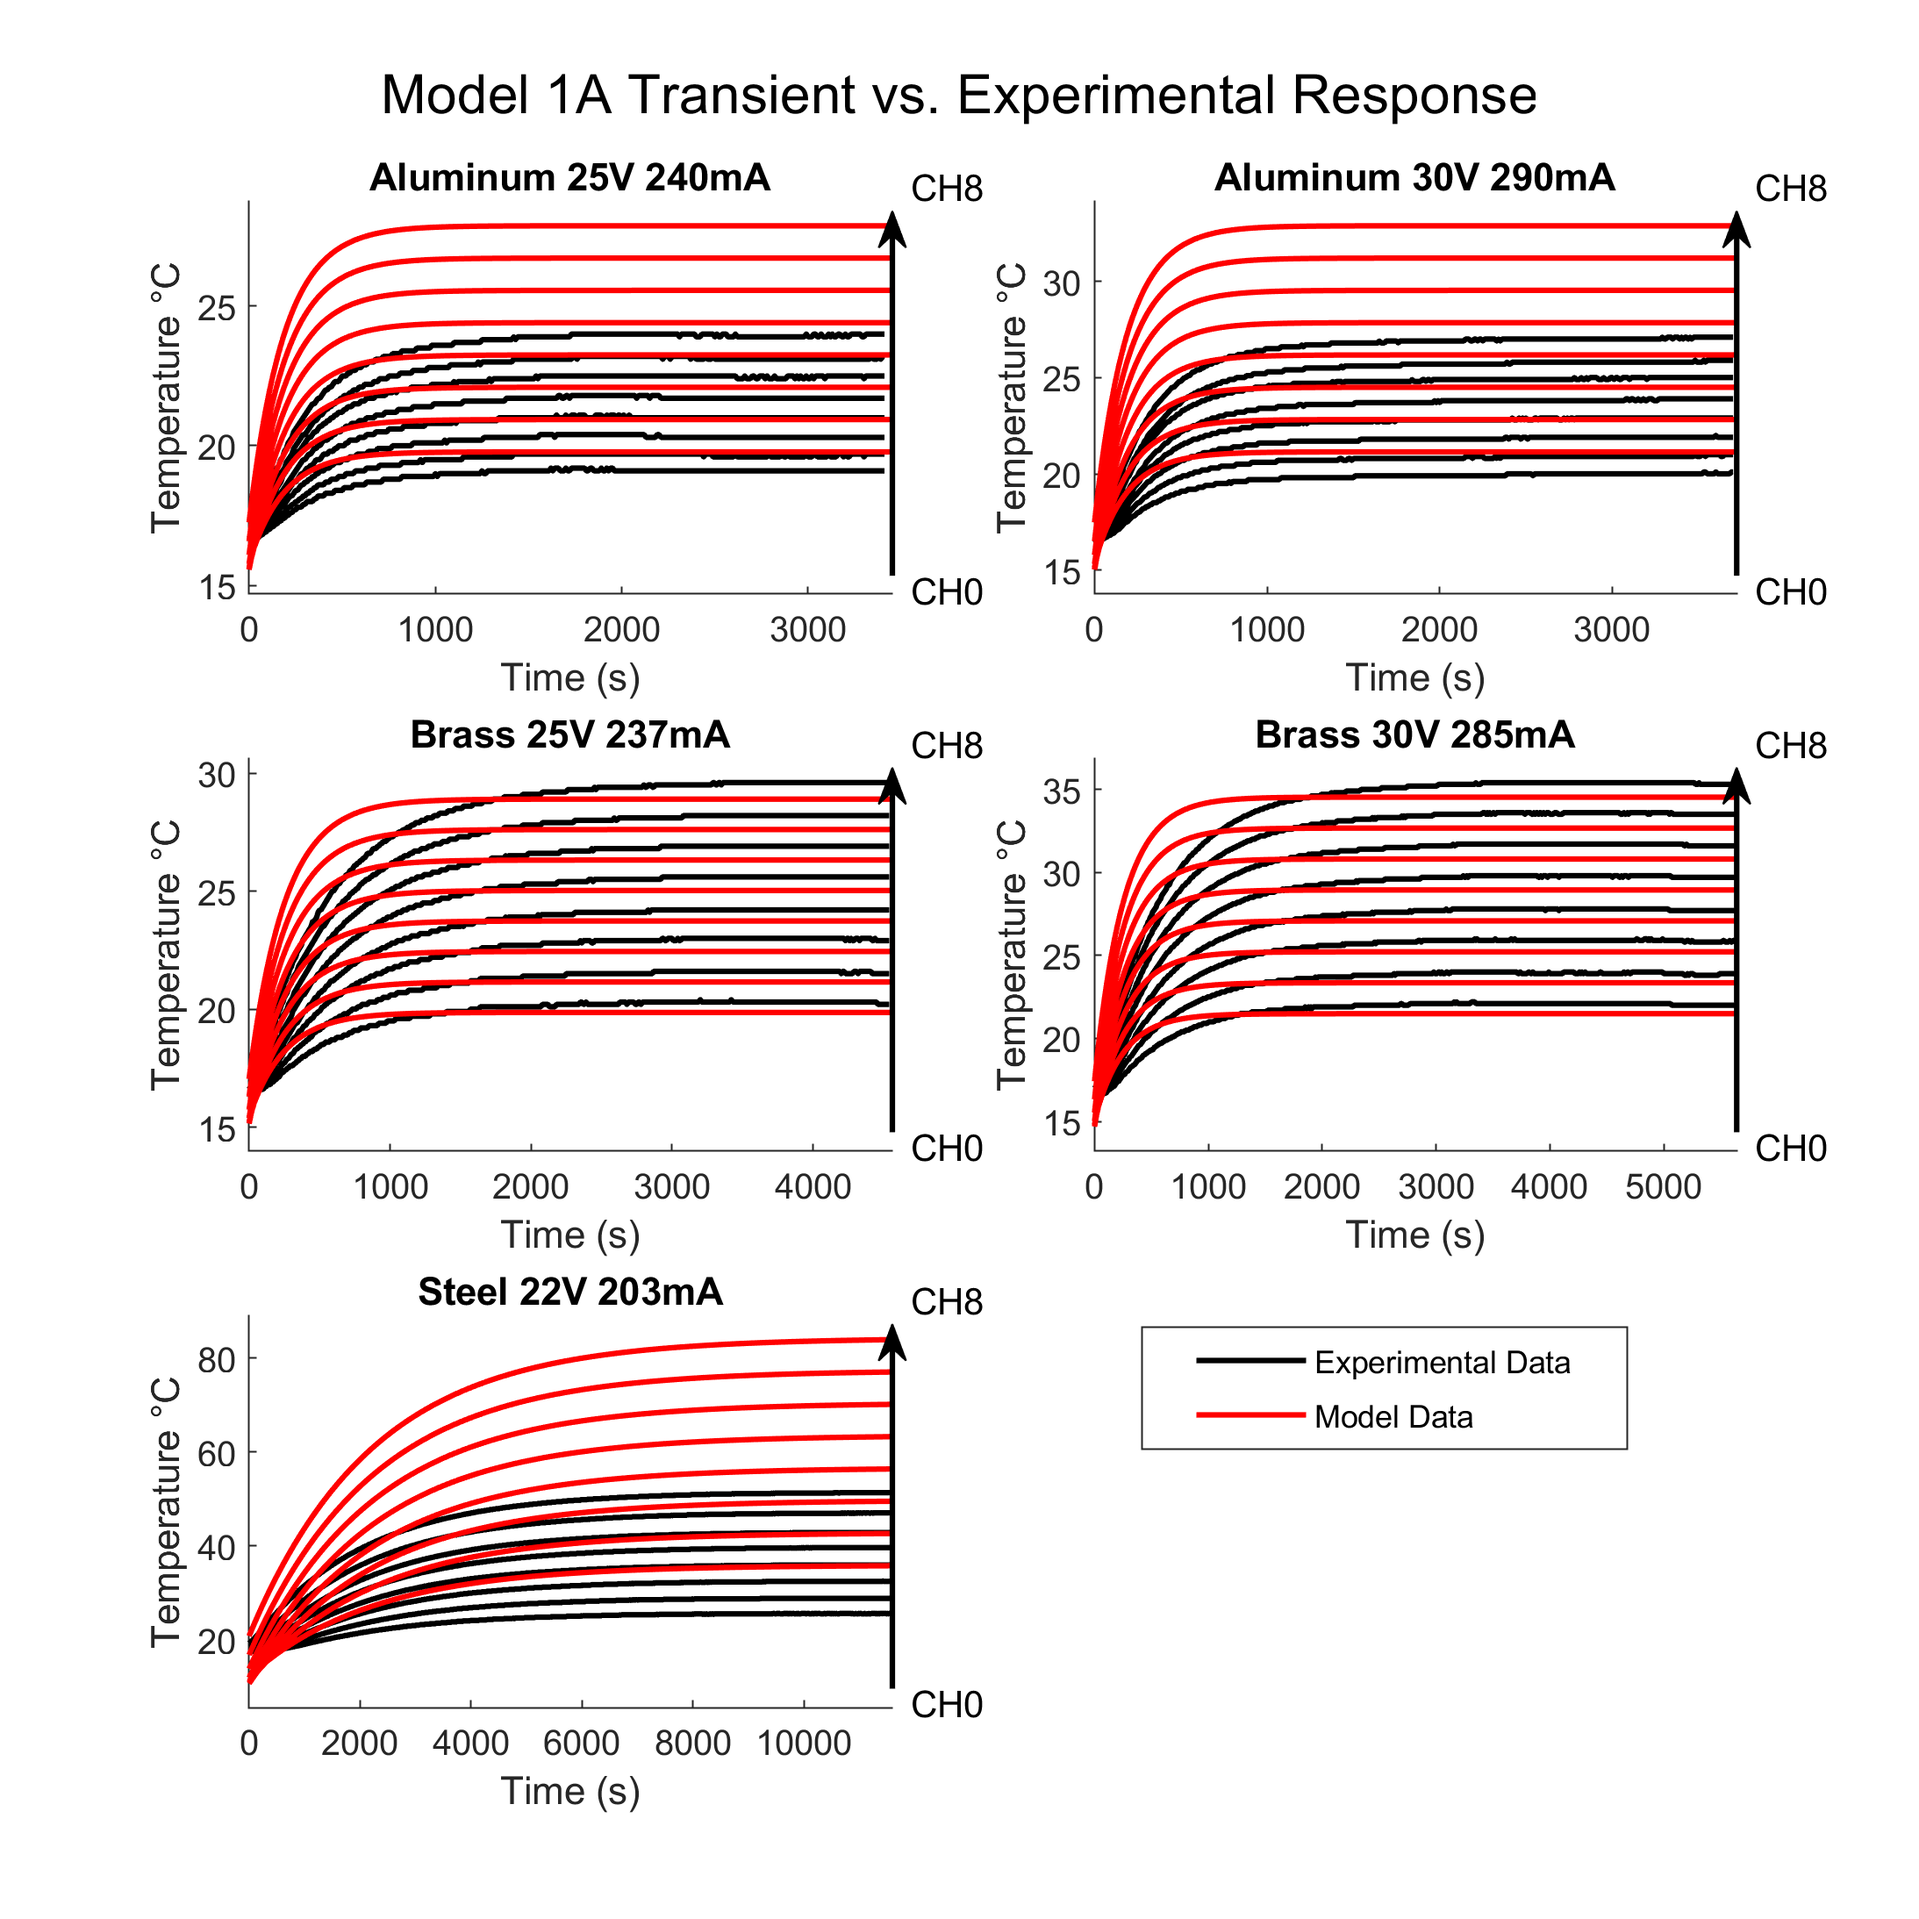
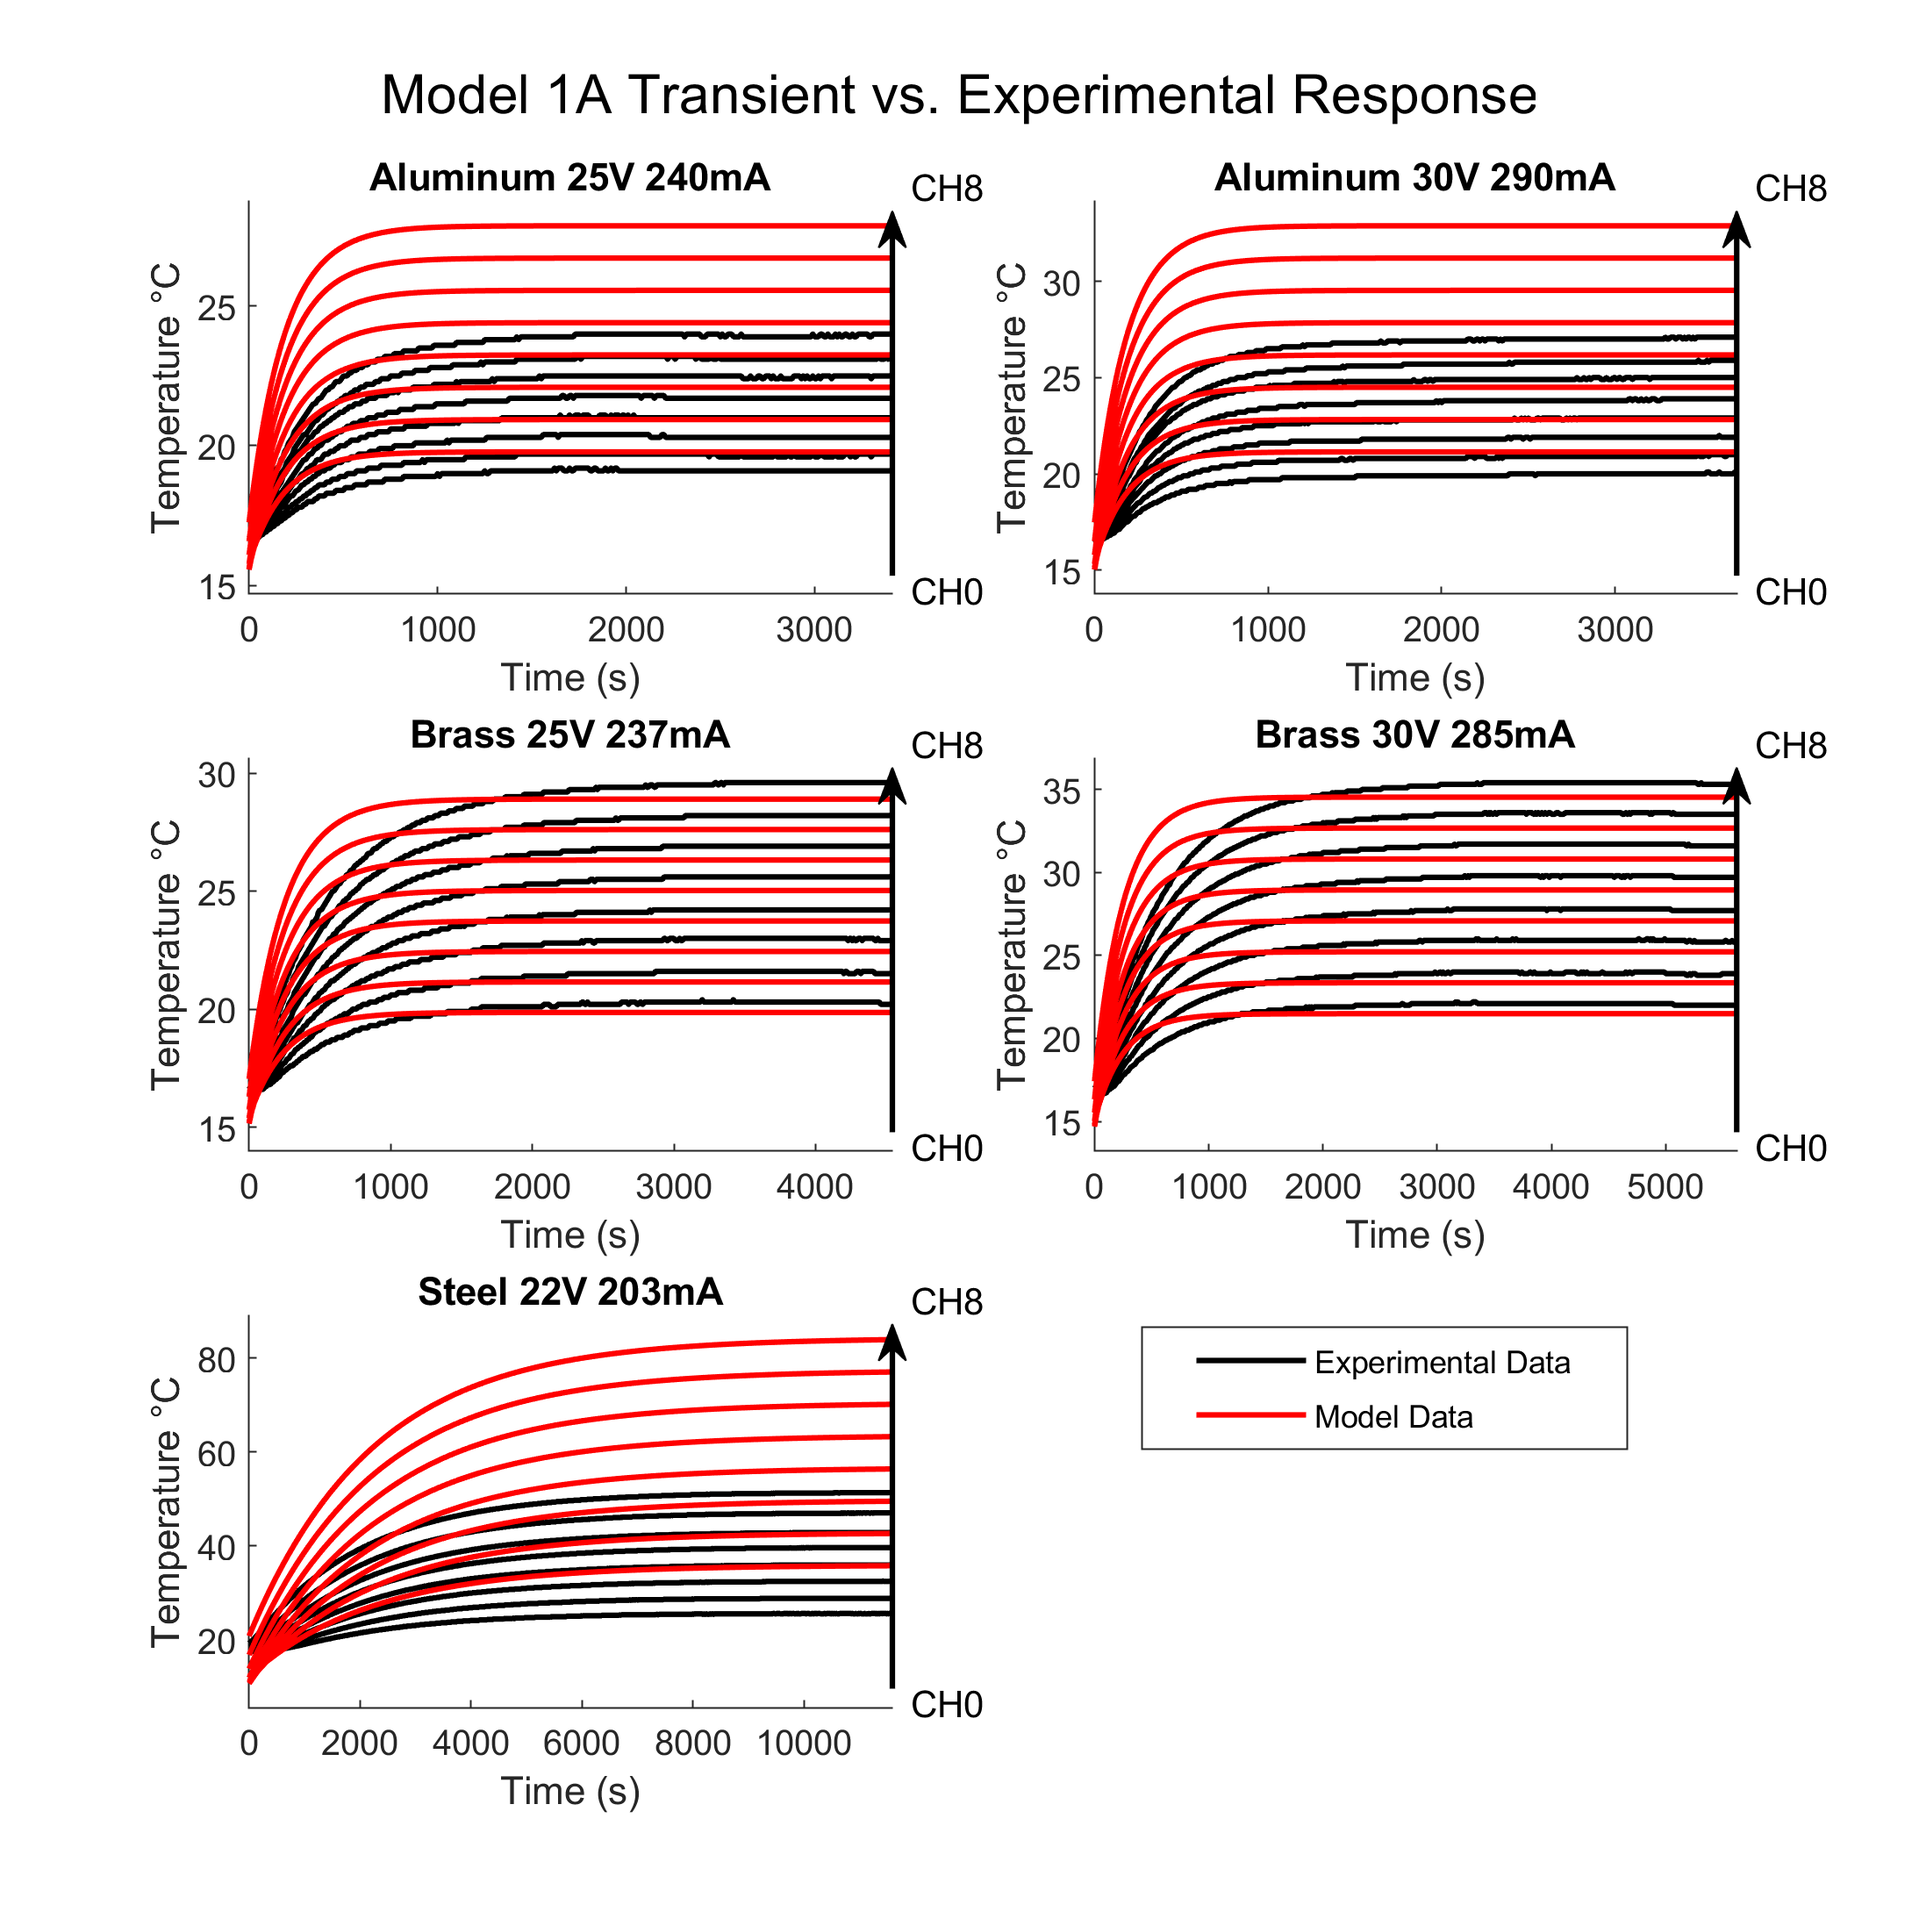
Add files via upload

diff --git a/main.m b/main.m
@@ -47,19 +47,33 @@ T_0 = table2array(init.fit_data(:,2));
 %% Calculating u(x,t) for each model
 
 % Time Vector (End time for each individual trial)
-t_vec = [height(data{1})*10,height(data{2})*10,height(data{3})*10,height(data{4})*10,height(data{5})*10];
+t_vec = [(height(data{1})-2)*10,(height(data{2})-2)*10,(height(data{3})-2)*10,(height(data{4})-2)*10,(height(data{5})-2)*10];
 
 % Model 1a
-u_model_1a = calc_u_models(1,steady.approx_steady_slope,init.fit_data.Slope,T_0,const.ch_position,t_vec,const,[1,1,2,2,3],1,10);
+u_model_1a = calc_u_models(1,steady.approx_steady_slope,init.fit_data.Slope,T_0,const.ch_position,t_vec,const,[1,1,2,2,3],1,10,[0,0,0,0,0]);
 
 % Model 1b
-u_model_1b = calc_u_models(1,steady.fit_data.Slope,init.fit_data.Slope,T_0,const.ch_position,t_vec,const,[1,1,2,2,3],1,10);
+u_model_1b = calc_u_models(1,steady.fit_data.Slope,init.fit_data.Slope,T_0,const.ch_position,t_vec,const,[1,1,2,2,3],1,10,[0,0,0,0,0]);
 
 % Model 2
-u_model_2 = calc_u_models(1,steady.fit_data.Slope,init.fit_data.Slope,T_0,const.ch_position,t_vec,const,[1,1,2,2,3],2,10);
+u_model_2 = calc_u_models(1,steady.fit_data.Slope,init.fit_data.Slope,T_0,const.ch_position,t_vec,const,[1,1,2,2,3],2,10,[0,0,0,0,0]);
 
 %% Plotting Transient Solutions for Each Model
 
 plot_transient(data,u_model_1a,1.1,file_info);
 plot_transient(data,u_model_1b,1.2,file_info);
 plot_transient(data,u_model_2,2,file_info);
+
+%% Calculating Model 3
+
+u_model_3 = calc_u_model3(1,steady.fit_data.Slope,init.fit_data.Slope,T_0,const.ch_position,t_vec,const,[1,1,2,2,3],1,10,const.alpha_mat);
+
+%% Calculating RMSE for Model 3
+
+[RMSE_model_3,min_RMSE,min_alpha] = calc_RMSE_model3(data,u_model_3,const.alpha_mat);
+
+%% Recalculating Each 
+
+% Model 3
+u_model_1b_alpha = calc_u_models(3,steady.fit_data.Slope,init.fit_data.Slope,T_0,const.ch_position,t_vec,const,[1,1,2,2,3],1,10,min_alpha);
+plot_transient(data,u_model_1b_alpha,3,file_info);

diff --git a/calc_u_model3.m b/calc_u_model3.m
@@ -1,0 +1,37 @@
+function [u_cell] = calc_u_model3(n,H,M,T_0,x,time,const,material_num,model_num,t_step,alpha)
+    % n - number of terms on Fourier series
+    % H - steady state temperature slope (degreeC/m)
+    % M - initial temperature slope (degreeC/m)
+    % T_0 - initial temperature at x_0
+
+    % Initializing u_cell
+    u_cell = cell(size(alpha));
+
+    for a = 1:length(alpha)
+        for i = 1:length(material_num) % Cycling through each case (1 = Alum 25V)
+    
+            % Reinitializing temporary matrix to store all of data
+            % Col 1: Time, Col 2-9: Channel Temperature
+            temp_mat = zeros(length(0:time(i)/t_step),1+length(x));
+    
+            % Cycling through every time (height of temporary matrix)
+            for t = 0:height(temp_mat)
+    
+                % Entering time value into matrix
+                temp_mat(t+1,1) = t*t_step;
+    
+                % Iterating through each channel (thermocouple) at specific time to calculate temperature
+                for k = 1:length(x)
+                    % Calling calculate temperature function for each cell
+                    temp_mat(t+1,k+1) = calcSum_u(n,H(i),M(i),T_0(i),x(k),temp_mat(t+1,1),const,material_num(i),model_num,alpha(a,i));
+                end
+            end
+    
+            % Converting temporary array into a table
+            temp_table = array2table(temp_mat,VariableNames = {'Time','CH1','CH2','CH3','CH4','CH5','CH6','CH7','CH8'});
+            
+            % Adding table into specified spot in cell matrix
+            u_cell{a,i} = temp_table;
+        end
+    end
+end

diff --git a/calcSum_u.m b/calcSum_u.m
@@ -1,4 +1,4 @@
-function [u] = calcSum_u(n,H,M,T_0,x,t,const,material_num,model_num)
+function [u] = calcSum_u(n,H,M,T_0,x,t,const,material_num,model_num,alpha)
 
     % Calculating 
     u = T_0 + H*x; % steady state
@@ -12,16 +12,18 @@ function [u] = calcSum_u(n,H,M,T_0,x,t,const,material_num,model_num)
             % Calculating lambda_n
             lambda_n = calc_lambda_n(i,const);
 
-            if material_num == 1
-                % Calculating u(x,t)
-                a = sin(lambda_n*x);
-                b = exp(-lambda_n^2 * const.alum.alpha * t);
-                u = u + b_n*a*b;
-
-            elseif material_num == 2
-                u = u + b_n * sin(lambda_n*x) * exp(-lambda_n^2 * const.brass.alpha * t);
-            elseif material_num == 3
-                u = u + b_n * sin(lambda_n*x) * exp(-lambda_n^2 * const.steel.alpha * t);
+            if alpha == 0
+                if material_num == 1
+                    % Calculating u(x,t)
+                    u = u + b_n * sin(lambda_n*x) * exp(-lambda_n^2 * const.alum.alpha * t);
+    
+                elseif material_num == 2
+                    u = u + b_n * sin(lambda_n*x) * exp(-lambda_n^2 * const.brass.alpha * t);
+                elseif material_num == 3
+                    u = u + b_n * sin(lambda_n*x) * exp(-lambda_n^2 * const.steel.alpha * t);
+                end
+            else
+                u = u + b_n * sin(lambda_n*x) * exp(-lambda_n^2 * alpha * t);
             end
 
         end

diff --git a/calc_RMSE_model3.m b/calc_RMSE_model3.m
@@ -1,0 +1,53 @@
+function [RMSE,min_RMSE,min_alpha] = calc_RMSE_model3(data,u_model,alpha_mat)
+
+RMSE = zeros(size(u_model));
+
+for i = 1:size(u_model,1)
+    for j = 1:length(data)
+
+        % Grabbing data from cell matrices
+        data_mat = table2array(data{j});
+        model_mat = table2array(u_model{i,j});
+
+        % Cutting off time column
+        data_mat = data_mat(:,2:end);
+        model_mat = model_mat(:,2:end);
+
+        a = sum((data_mat-model_mat).^2,"all");
+        b = numel(data_mat);
+
+        RMSE(i,j) = sqrt(a / b);
+
+    end
+end
+
+%% Plotting RMSE vs Alpha
+
+yes_plot = 1;
+
+if yes_plot == 1
+    figure()
+    hold on
+    for i = 1:size(RMSE,2)
+        plot(alpha_mat(:,i),RMSE(:,i),LineWidth=1.5)
+    end
+    hold off
+    title("Root Mean Squared Error vs Thermal Diffusivity")
+    xlabel("Thermal Diffusivity (m^2/s)")
+    ylabel("Root Mean Squared Error (°C)")
+    ylim([0,5])
+    legend("Aluminum 25V","Aluminum 30V","Brass 25V","Brass 30V","Steel 22V");
+    print("./Images/RMSE Plot","-dpng","-r300")
+end
+
+%% Finding Minimum RMSE Error and Corresponding Thermal Diffusivity
+
+[min_RMSE,idx] = min(RMSE,[],1);
+
+min_alpha = zeros(1,5);
+
+for i = 1:length(min_alpha)
+    min_alpha(i) = alpha_mat(idx(i),i);
+end
+
+end

diff --git a/calc_u_models.m b/calc_u_models.m
@@ -1,4 +1,4 @@
-function [u_cell] = calc_u_models(n,H,M,T_0,x,time,const,material_num,model_num,t_step)
+function [u_cell] = calc_u_models(n,H,M,T_0,x,time,const,material_num,model_num,t_step,alpha)
     % n - number of terms on Fourier series
     % H - steady state temperature slope (degreeC/m)
     % M - initial temperature slope (degreeC/m)
@@ -22,7 +22,7 @@ function [u_cell] = calc_u_models(n,H,M,T_0,x,time,const,material_num,model_num,
             % Iterating through each channel (thermocouple) at specific time to calculate temperature
             for k = 1:length(x)
                 % Calling calculate temperature function for each cell
-                temp_mat(t+1,k+1) = calcSum_u(n,H(i),M(i),T_0(i),x(k),temp_mat(t+1,1),const,material_num(i),model_num);
+                temp_mat(t+1,k+1) = calcSum_u(n,H(i),M(i),T_0(i),x(k),temp_mat(t+1,1),const,material_num(i),model_num,alpha(i));
             end
         end
 

diff --git a/get_const.m b/get_const.m
@@ -29,4 +29,14 @@ function [const] = get_const()
     const.A = pi/4*const.d^2; % cross sectional area [m^2]
     const.L = 0.149225; % length from x_0 to heater
 
+    % Alpha Matrix
+    const.range = [0.1,1.9];
+    const.n = 61;
+    const.alpha_mat = zeros(const.n,5);
+    const.alpha_mat(:,1) = linspace(const.range(1)*const.alum.alpha,const.range(2)*const.alum.alpha,const.n);
+    const.alpha_mat(:,2) = linspace(const.range(1)*const.alum.alpha,const.range(2)*const.alum.alpha,const.n);
+    const.alpha_mat(:,3) = linspace(const.range(1)*const.brass.alpha,const.range(2)*const.brass.alpha,const.n);
+    const.alpha_mat(:,4) = linspace(const.range(1)*const.brass.alpha,const.range(2)*const.brass.alpha,const.n);
+    const.alpha_mat(:,5) = linspace(const.range(1)*const.steel.alpha,const.range(2)*const.steel.alpha,const.n);
+
 end

diff --git a/plot_transient.m b/plot_transient.m
@@ -56,8 +56,11 @@ function [] = plot_transient(exp_data,model_data,model_num,file_info)
         sgtitle("Model 1B Transient vs. Experimental Response")
         print("./Images/Model 1B Transient Response","-dpng","-r300")
     elseif model_num == 2
-        sgtitle("Model 2 Transient vs. Experimental Response")
+        sgtitle("Model II Transient vs. Experimental Response")
         print("./Images/Model 2 Transient Response","-dpng","-r300")
+    elseif model_num == 3
+        sgtitle("Model III Transient vs. Experimental Response")
+        print("./Images/Model 3 Transient Response","-dpng","-r300")
     end
 
 end

diff --git a/filereadin.m b/filereadin.m
@@ -23,4 +23,7 @@ for i=1:length(a)
     ampval= strsplit(b{3},'mA'); % amps are always in the third portion
     volts(i) = str2double(v{1}); % convert string to number (vector)
     amps(i) = str2double(ampval{1});
+
+    % Removing NANs
+    data{i} = rmmissing(data{i});
 end
